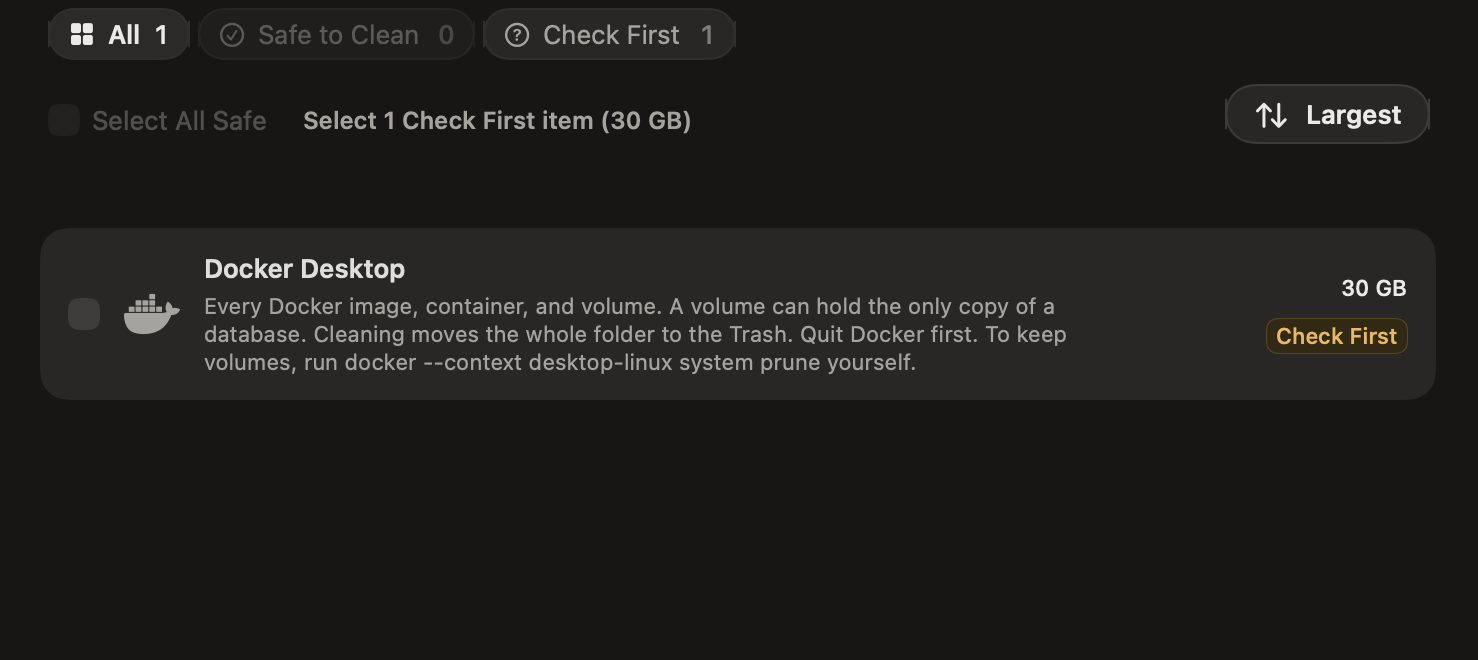
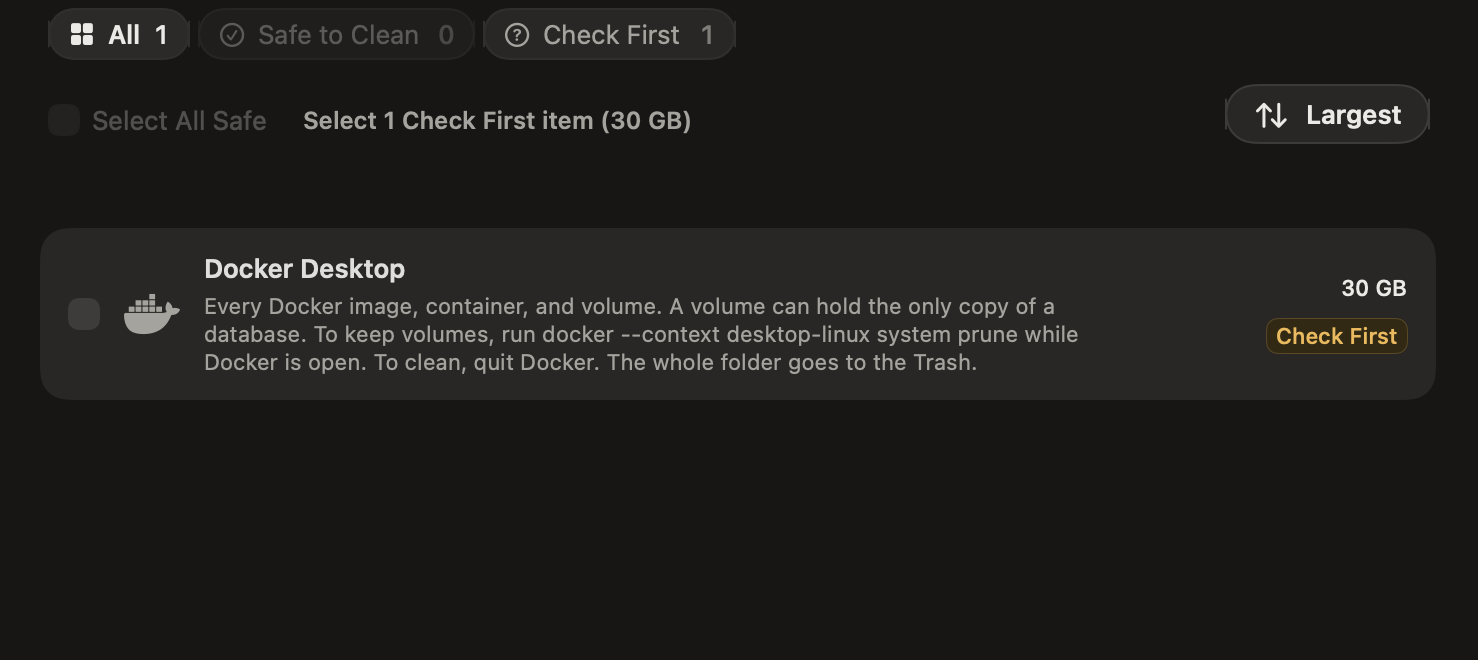
fix: address review on PR wording and tests
The Docker text said to quit Docker and then run system prune, which
fails once Docker has quit. Prune now comes first, while Docker is
open, and quitting is tied to cleaning. It is 235 characters and still
fits the 3-line card at 420 pt, in English and Chinese.

New tests tie the alert wording to the engine. The Not Sure and
unsaved-git alerts name simctl when a simulator or runtime is staged,
and only then. deleteItems sends to simctl exactly the paths
removesDirectly flags.

Adds before and after screenshots of the Not Sure sheet.

Changed region(s): [[0.1245, 0.4848, 0.747, 0.5758]]

diff --git a/PurgeTests/DeletionConfirmationWordingTests.swift b/PurgeTests/DeletionConfirmationWordingTests.swift
@@ -1,0 +1,149 @@
+import Foundation
+import Testing
+@testable import Purge
+
+/// The Not Sure and unsaved-git alerts say the files go to the Trash and can be
+/// put back. That is only true when nothing in the cleanup is removed for good,
+/// so a simulator or runtime in the selection must add the simctl sentence.
+/// Every test stops at the alert and cancels, so nothing reaches the engine.
+/// The paths do not exist on disk.
+@MainActor
+@Suite("Deletion confirmation wording")
+struct DeletionConfirmationWordingTests {
+    private static let simctlSentence = "removed for good through simctl"
+    private static let putBack = "so you can put them back"
+
+    private let home = FileManager.default.homeDirectoryForCurrentUser
+
+    private func candidate(
+        _ url: URL,
+        level: SafetyLevel = .medium,
+        gitStatus: GitWorktreeStatus = .unknown
+    ) -> PurgeStore.DeletionCandidate {
+        PurgeStore.DeletionCandidate(
+            title: url.lastPathComponent,
+            path: url,
+            sizeBytes: 1,
+            safetyInfo: SafetyInfo(level: level, headline: url.lastPathComponent, explanation: "", recoverySteps: "", reinstallCommand: nil),
+            reinstallCommand: nil,
+            subtitle: nil,
+            reinstallSafety: .notApplicable,
+            gitStatus: gitStatus
+        )
+    }
+
+    private func unusedPath(_ relative: String) throws -> URL {
+        let url = home.appendingPathComponent(relative, isDirectory: true)
+            .appendingPathComponent("PurgeConfirmWordingTests-\(UUID().uuidString)", isDirectory: true)
+        try #require(!FileManager.default.fileExists(atPath: url.path))
+        return url
+    }
+
+    private func unusedDevicePath() throws -> URL {
+        let url = home.appendingPathComponent("Library/Developer/CoreSimulator/Devices", isDirectory: true)
+            .appendingPathComponent(UUID().uuidString, isDirectory: true)
+        try #require(!FileManager.default.fileExists(atPath: url.path))
+        return url
+    }
+
+    private func runtime() -> SimulatorRuntime {
+        SimulatorRuntime(
+            id: "7AE1D6B6-5524-4FAD-B793-1D1C911E5269",
+            runtimeIdentifier: "com.apple.CoreSimulator.SimRuntime.iOS-26-3",
+            platformName: "iOS",
+            version: "26.3.1",
+            build: "23D8133",
+            kind: "Patchable Cryptex Disk Image",
+            state: "Ready",
+            sizeBytes: 8_393_503_393,
+            lastUsedAt: nil,
+            deviceCount: 0,
+            locationURL: URL(fileURLWithPath: "/Library/Developer/CoreSimulator/Volumes/iOS_26.3.1", isDirectory: true),
+            safetyInfo: SimulatorRuntime.safetyInfo(
+                platformName: "iOS", version: "26.3.1", state: "Ready", sizeBytes: 8_393_503_393,
+                lastUsedAt: nil, deviceCount: 0, isXcodeDefault: false, isLegacyImage: false
+            )
+        )
+    }
+
+    /// Opens the Not Sure alert. Any `.unknown` pick stops the flow there.
+    private func notSureMessage(_ store: PurgeStore, _ picks: [PurgeStore.DeletionCandidate]) throws -> String {
+        store.presentDeletionSheet(candidates: picks)
+        store.userConfirmedDeletionFromPrimarySheet()
+        try #require(store.showHighRiskDeletionSecondConfirm)
+        let message = store.highRiskDeletionSecondConfirmMessage
+        store.cancelHighRiskDeletionSecondStep()
+        return message
+    }
+
+    /// Opens the unsaved-git alert. A `.dirty` pick stops the flow there.
+    private func gitMessage(_ store: PurgeStore, _ picks: [PurgeStore.DeletionCandidate]) throws -> String {
+        store.presentDeletionSheet(candidates: picks)
+        store.userConfirmedDeletionFromPrimarySheet()
+        try #require(store.showUncommittedGitFriction)
+        let message = store.uncommittedGitFrictionMessage
+        store.cancelDeletionFrictionFlow()
+        return message
+    }
+
+    @Test func notSureFoldersOnlySayTheTrash() throws {
+        let scans = FakeScans()
+        defer { scans.cleanUp() }
+        let store = scans.makeStore()
+        let folder = try unusedPath("Library/Caches")
+
+        let message = try notSureMessage(store, [candidate(folder, level: .unknown)])
+
+        #expect(message.contains(Self.putBack))
+        #expect(!message.contains(Self.simctlSentence))
+    }
+
+    @Test func notSureWithASimulatorNamesSimctl() throws {
+        let scans = FakeScans()
+        defer { scans.cleanUp() }
+        let store = scans.makeStore()
+        let folder = try unusedPath("Library/Caches")
+
+        let message = try notSureMessage(store, [candidate(folder, level: .unknown), candidate(try unusedDevicePath())])
+
+        #expect(message.contains(Self.simctlSentence))
+    }
+
+    @Test func notSureWithARuntimeNamesSimctl() async throws {
+        let scans = FakeScans()
+        defer { scans.cleanUp() }
+        let row = runtime()
+        scans.developerEvents = [.simulatorRuntimeFound(row)]
+        let store = scans.makeStore()
+        await store.scanDeveloper()
+        let folder = try unusedPath("Library/Caches")
+
+        let message = try notSureMessage(store, [candidate(folder, level: .unknown), candidate(row.locationURL)])
+
+        #expect(message.contains(Self.simctlSentence))
+    }
+
+    @Test func unsavedProjectOnlySaysTheTrash() throws {
+        let scans = FakeScans()
+        defer { scans.cleanUp() }
+        let store = scans.makeStore()
+        let project = try unusedPath("Developer")
+
+        let message = try gitMessage(store, [candidate(project, gitStatus: .dirty)])
+
+        #expect(message.contains(Self.putBack))
+        #expect(!message.contains(Self.simctlSentence))
+    }
+
+    @Test func unsavedProjectWithASimulatorNamesSimctl() throws {
+        let scans = FakeScans()
+        defer { scans.cleanUp() }
+        let store = scans.makeStore()
+        let project = try unusedPath("Developer")
+
+        let message = try gitMessage(store, [candidate(project, gitStatus: .dirty), candidate(try unusedDevicePath())])
+
+        #expect(message.contains(Self.simctlSentence))
+        #expect(!message.contains(Self.putBack))
+    }
+}

diff --git a/PurgeTests/SimulatorDeviceRemovalTests.swift b/PurgeTests/SimulatorDeviceRemovalTests.swift
@@ -301,6 +301,45 @@ struct SimulatorDeviceRemovalTests {
         #expect(report.failedItems.isEmpty)
     }
 
+    /// The confirmations say "you can put them back" unless `removesDirectly` flags a
+    /// path. That holds only while the engine sends exactly those paths to simctl and
+    /// reports them as not in the Trash. The folder path does not exist, so its Trash
+    /// move fails and nothing on disk changes.
+    @Test func removesDirectlyMatchesWhatTheEngineRemovesForGood() async throws {
+        let device = try unusedDevicePath()
+        let runtime = URL(fileURLWithPath: "/Library/Developer/CoreSimulator/Volumes/iOS_TEST1", isDirectory: true)
+        let folder = FileManager.default.homeDirectoryForCurrentUser
+            .appendingPathComponent("Library/Caches/PurgeRemovesDirectlyTests-\(UUID().uuidString)", isDirectory: true)
+        try #require(!FileManager.default.fileExists(atPath: folder.path))
+        let runtimeKey = runtime.standardizedFileURL.path
+        let runtimePaths: Set<String> = [runtimeKey]
+        let recorder = Recorder()
+        let deleter = FileDeleter(
+            simulatorRuntimeRemover: { id in
+                recorder.record(id)
+                return .removed
+            },
+            simulatorDeviceRemover: { udid, _ in
+                recorder.record(udid)
+                return .removed
+            }
+        )
+        let urls = [device, runtime, folder]
+        let report = try await deleter.deleteItems(
+            at: urls,
+            pathToExpectedSizeBytes: Dictionary(uniqueKeysWithValues: urls.map { ($0.standardizedFileURL.path, Int64(1)) }),
+            simulatorRuntimeIDsByPath: [runtimeKey: "RUNTIME-ID"]
+        )
+
+        #expect(urls.map { FileDeleter.removesDirectly($0, simulatorRuntimePaths: runtimePaths) } == [true, true, false])
+        #expect(Set(recorder.asked) == [device.lastPathComponent, "RUNTIME-ID"])
+        #expect(report.deletedItems.count == 2)
+        for item in report.deletedItems {
+            let flagged = FileDeleter.removesDirectly(URL(fileURLWithPath: item.path), simulatorRuntimePaths: runtimePaths)
+            #expect(item.movedToTrash == !flagged)
+        }
+    }
+
     @Test func retryReturnsTheSameReason() async throws {
         let device = try unusedDevicePath()
         let deleter = FileDeleter(simulatorDeviceRemover: { _, _ in

diff --git a/PurgeTests/DockerSafetyTierTests.swift b/PurgeTests/DockerSafetyTierTests.swift
@@ -23,13 +23,16 @@ struct DockerSafetyTierTests {
     }
 
     /// Cleaning moves the container folder to the Trash. The prune command is
-    /// something the user runs, not Purge, so the explanation has to say both.
+    /// something the user runs, not Purge, and only works while Docker is open.
+    /// Quitting comes before cleaning, so the text must not read "quit, then prune".
     @Test
-    func dockerExplanationSaysTheFolderGoesToTheTrash() {
+    func dockerExplanationSaysTheFolderGoesToTheTrash() throws {
         let record = ExplanationDatabase.matchBundledDatabase(folderName: "docker")
         #expect(record?.displayName == "Docker Desktop")
         let explanation = record?.explanation ?? ""
-        #expect(explanation.contains("moves the whole folder to the Trash"))
-        #expect(explanation.contains("run docker --context desktop-linux system prune yourself"))
+        #expect(explanation.contains("The whole folder goes to the Trash"))
+        let prune = try #require(explanation.range(of: "run docker --context desktop-linux system prune while Docker is open"))
+        let quit = try #require(explanation.range(of: "quit Docker"))
+        #expect(prune.upperBound <= quit.lowerBound)
     }
 }
